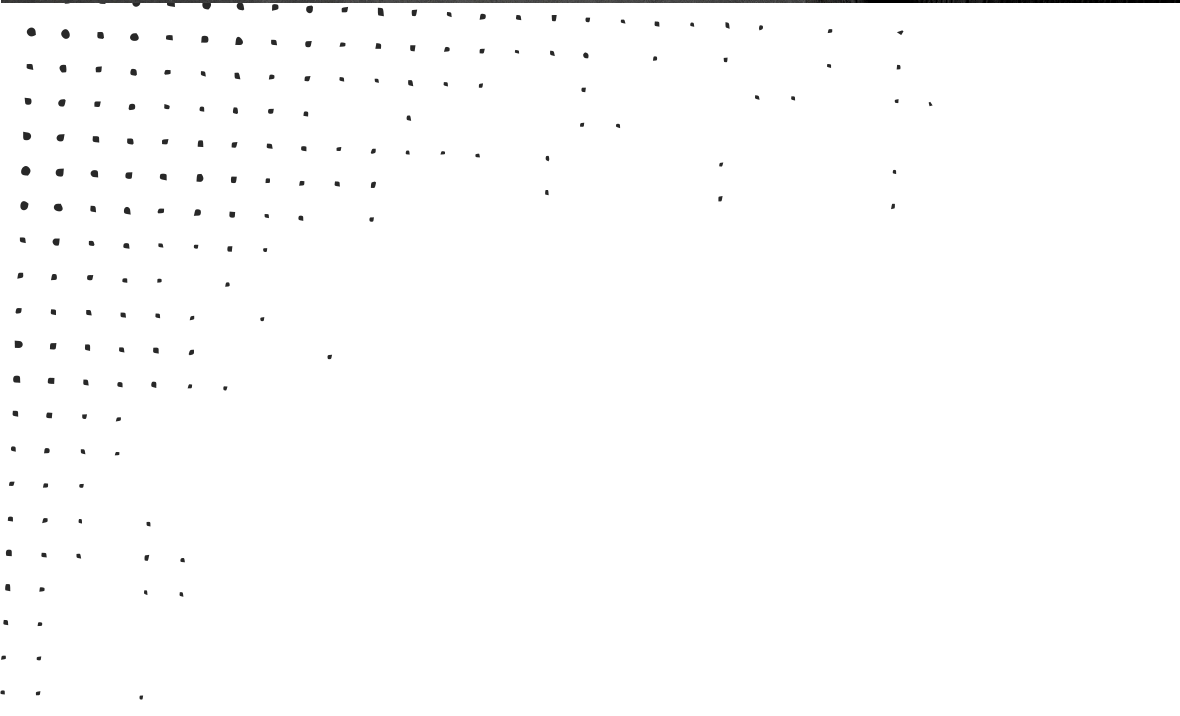
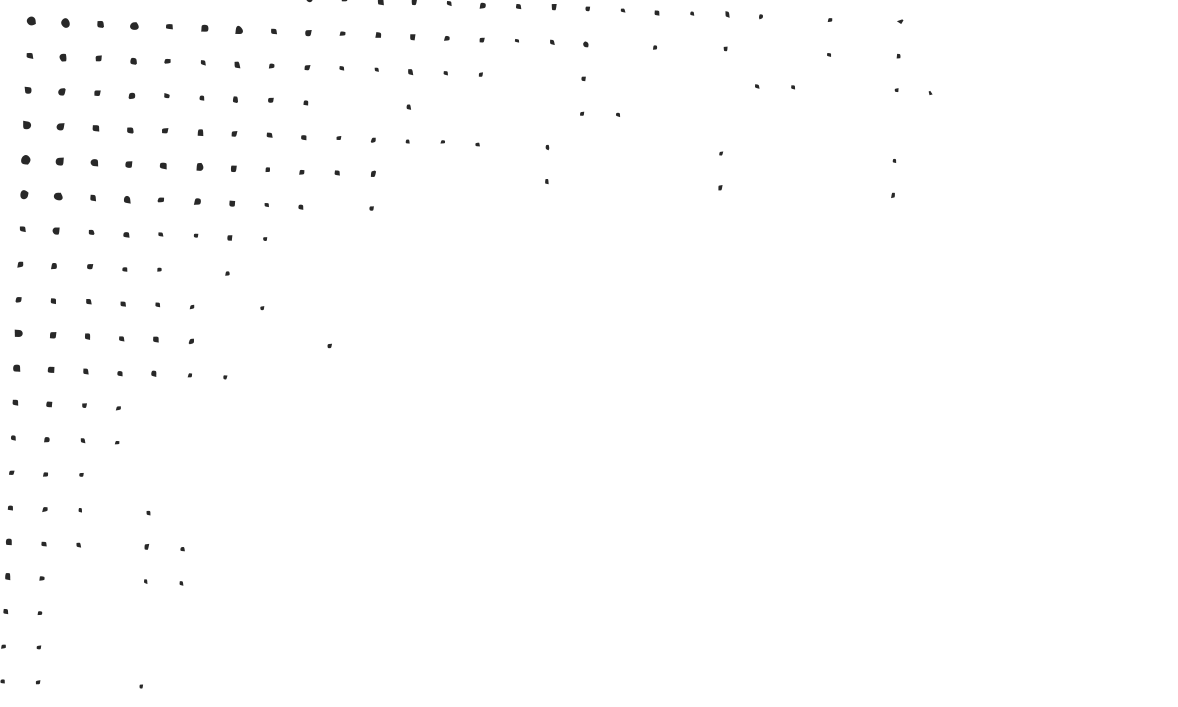
pricing section complete

diff --git a/css/style.css b/css/style.css
@@ -62,8 +62,13 @@ ul a {
   transform: scale(1.3);
   transition: 0.2s;
 }
-.buttonn:hover {
+.subscribe:hover {
   background-color: #d1570a;
+  transform: scale(1.1);
+  transition: 0.2s;
+}
+.pricebtn:hover {
+  background-color: black;
   transform: scale(1.1);
   transition: 0.2s;
 }
@@ -106,11 +111,13 @@ ul a {
   flex-direction: column;
   align-items: center;
   position: relative;
+  z-index: 1;
 }
 .dancetour img {
   position: absolute;
   right: 163px;
   width: 846px;
+  opacity: 0.8;
 }
 
 /* ?dancetourtext */
@@ -118,6 +125,7 @@ ul a {
 #dancetourtext {
   text-align: center;
   color: white;
+  z-index: 1;
 }
 #dancetourtext1 {
   margin-top: 68px;
@@ -159,6 +167,7 @@ ul a {
 #dancetourwindow1 {
   width: 25%;
   border-radius: 3px;
+  z-index: 1;
 }
 #window1photo {
   background-image: url(/images/dance-tour1.png);
@@ -193,3 +202,112 @@ ul a {
   height: 219px;
 }
 
+/* !pricing section */
+
+.pricingsec {
+  background-color: #2c2c2c;
+  height: 700px;
+  flex-direction: column;
+  align-items: center;
+  position: relative;
+}
+#imgpricing1 img {
+  position: absolute;
+  left: -25%;
+  top: -38%;
+  width: 647px;
+  opacity: 0.1;
+}
+#imgpricing2 img {
+  position: absolute;
+  right: -25%;
+  bottom: -38%;
+  width: 647px;
+  opacity: 0.1;
+}
+
+/* ? pricingsec text */
+
+#pricingsectext {
+  text-align: center;
+  color: white;
+  z-index: 1;
+}
+#pricingsectext1 {
+  margin-top: 68px;
+  font-size: 45px;
+  font-weight: 900;
+}
+#pricingsectext2 {
+  margin-top: 45px;
+  width: 675px;
+}
+
+/* ?pricingsec windows */
+
+.pricingsecwindows {
+  height: 339px;
+  width: 100%;
+  justify-content: center;
+  gap: 43px;
+  margin-top: 77px;
+  z-index: 1;
+}
+.pricingphoto {
+  background-image: url(/images/ricing-icon.png);
+  background-repeat: no-repeat;
+  background-size: contain;
+  height: 95px;
+  background-position: center;
+  margin-top: 43px;
+}
+.pricingwindowtital {
+  text-align: center;
+  padding-top: 28px;
+  font-size: 26px;
+  color: white;
+  font-weight: 900;
+}
+.pricingwindowdescription {
+  text-align: center;
+  margin-top: 15px;
+  color: white;
+  font-size: 11px;
+}
+.pricebtn {
+  background-color: #2c2c2c;
+  padding: 15px 78px;
+  border-radius: 4px;
+  color: white;
+  font-weight: 900;
+  width: 221px;
+  margin-top: 26px;
+  margin-left: 15px;
+}
+
+/* *dance tour window 1 */
+
+#pricingsecwindow1 {
+  background-color: #d1570a;
+  height: 333px;
+  width: 25%;
+  border-radius: 3px;
+}
+
+/* *dance tour window 2 */
+
+#pricingsecwindow2 {
+  background-color: #d1570a;
+  height: 333px;
+  width: 25%;
+  border-radius: 3px;
+}
+
+/* *dance tour window 3 */
+
+#pricingsecwindow3 {
+  background-color: #d1570a;
+  height: 333px;
+  width: 25%;
+  border-radius: 3px;
+}

diff --git a/index.html b/index.html
@@ -111,7 +111,63 @@
         </div>
       </section>
       <!-- pricing  section -->
-      <section id="pricing"></section>
+      <section class="pricingsec flex">
+        
+        <div id="imgpricing1">
+          <img src="/images/dot-second-bottom-left.png" alt="">
+        </div>
+
+        <div id="imgpricing2">
+          <img src="/images/dot-second-bottom-right.png" alt="">
+        </div>
+        
+        
+
+
+        <div id="pricingsectext">
+          <div id="pricingsectext1">PRICING</div>
+          <div id="pricingsectext2">
+            Lorem ipsum dolor sit amet consectetur adipisicing elit. Minima
+            nihil corporis recusandae quisquam quo sapiente culpa, obcaecati
+          </div>
+        </div>
+        <div class="pricingsecwindows flex">
+          <div id="pricingsecwindow1">
+            <div class="pricingphoto"></div>
+            <div class="pricingwindowtital">BASIC</div>
+            <div class="pricingwindowdescription">
+              Lorem ipsum dolor sit, amet consectetur adipisicing elit.
+              Voluptatibus
+            </div>
+            <div class="buttonn pricebtn ">$150.00</div>
+          </div>
+          <div id="pricingsecwindow2">
+            <div class="pricingphoto"></div>
+            <div class="pricingwindowtital">PROFESSIONAL</div>
+            <div class="pricingwindowdescription">
+              Lorem ipsum dolor sit, amet consectetur adipisicing elit.
+              Voluptatibus
+            </div>
+            <div class="buttonn pricebtn">$200.00</div>
+          </div>
+          <div id="pricingsecwindow3">
+            <div class="pricingphoto"></div>
+            <div class="pricingwindowtital">ULTIMATE</div>
+            <div class="pricingwindowdescription">
+              Lorem ipsum dolor sit, amet consectetur adipisicing elit.
+              Voluptatibus
+            </div>
+            <div class="buttonn pricebtn">$250.00</div>
+          </div>
+        </div>
+
+
+
+
+
+
+
+      </section>
       <!-- amzing dance section -->
       <section id="amzingdance"></section>
       <!-- bestdance section -->
